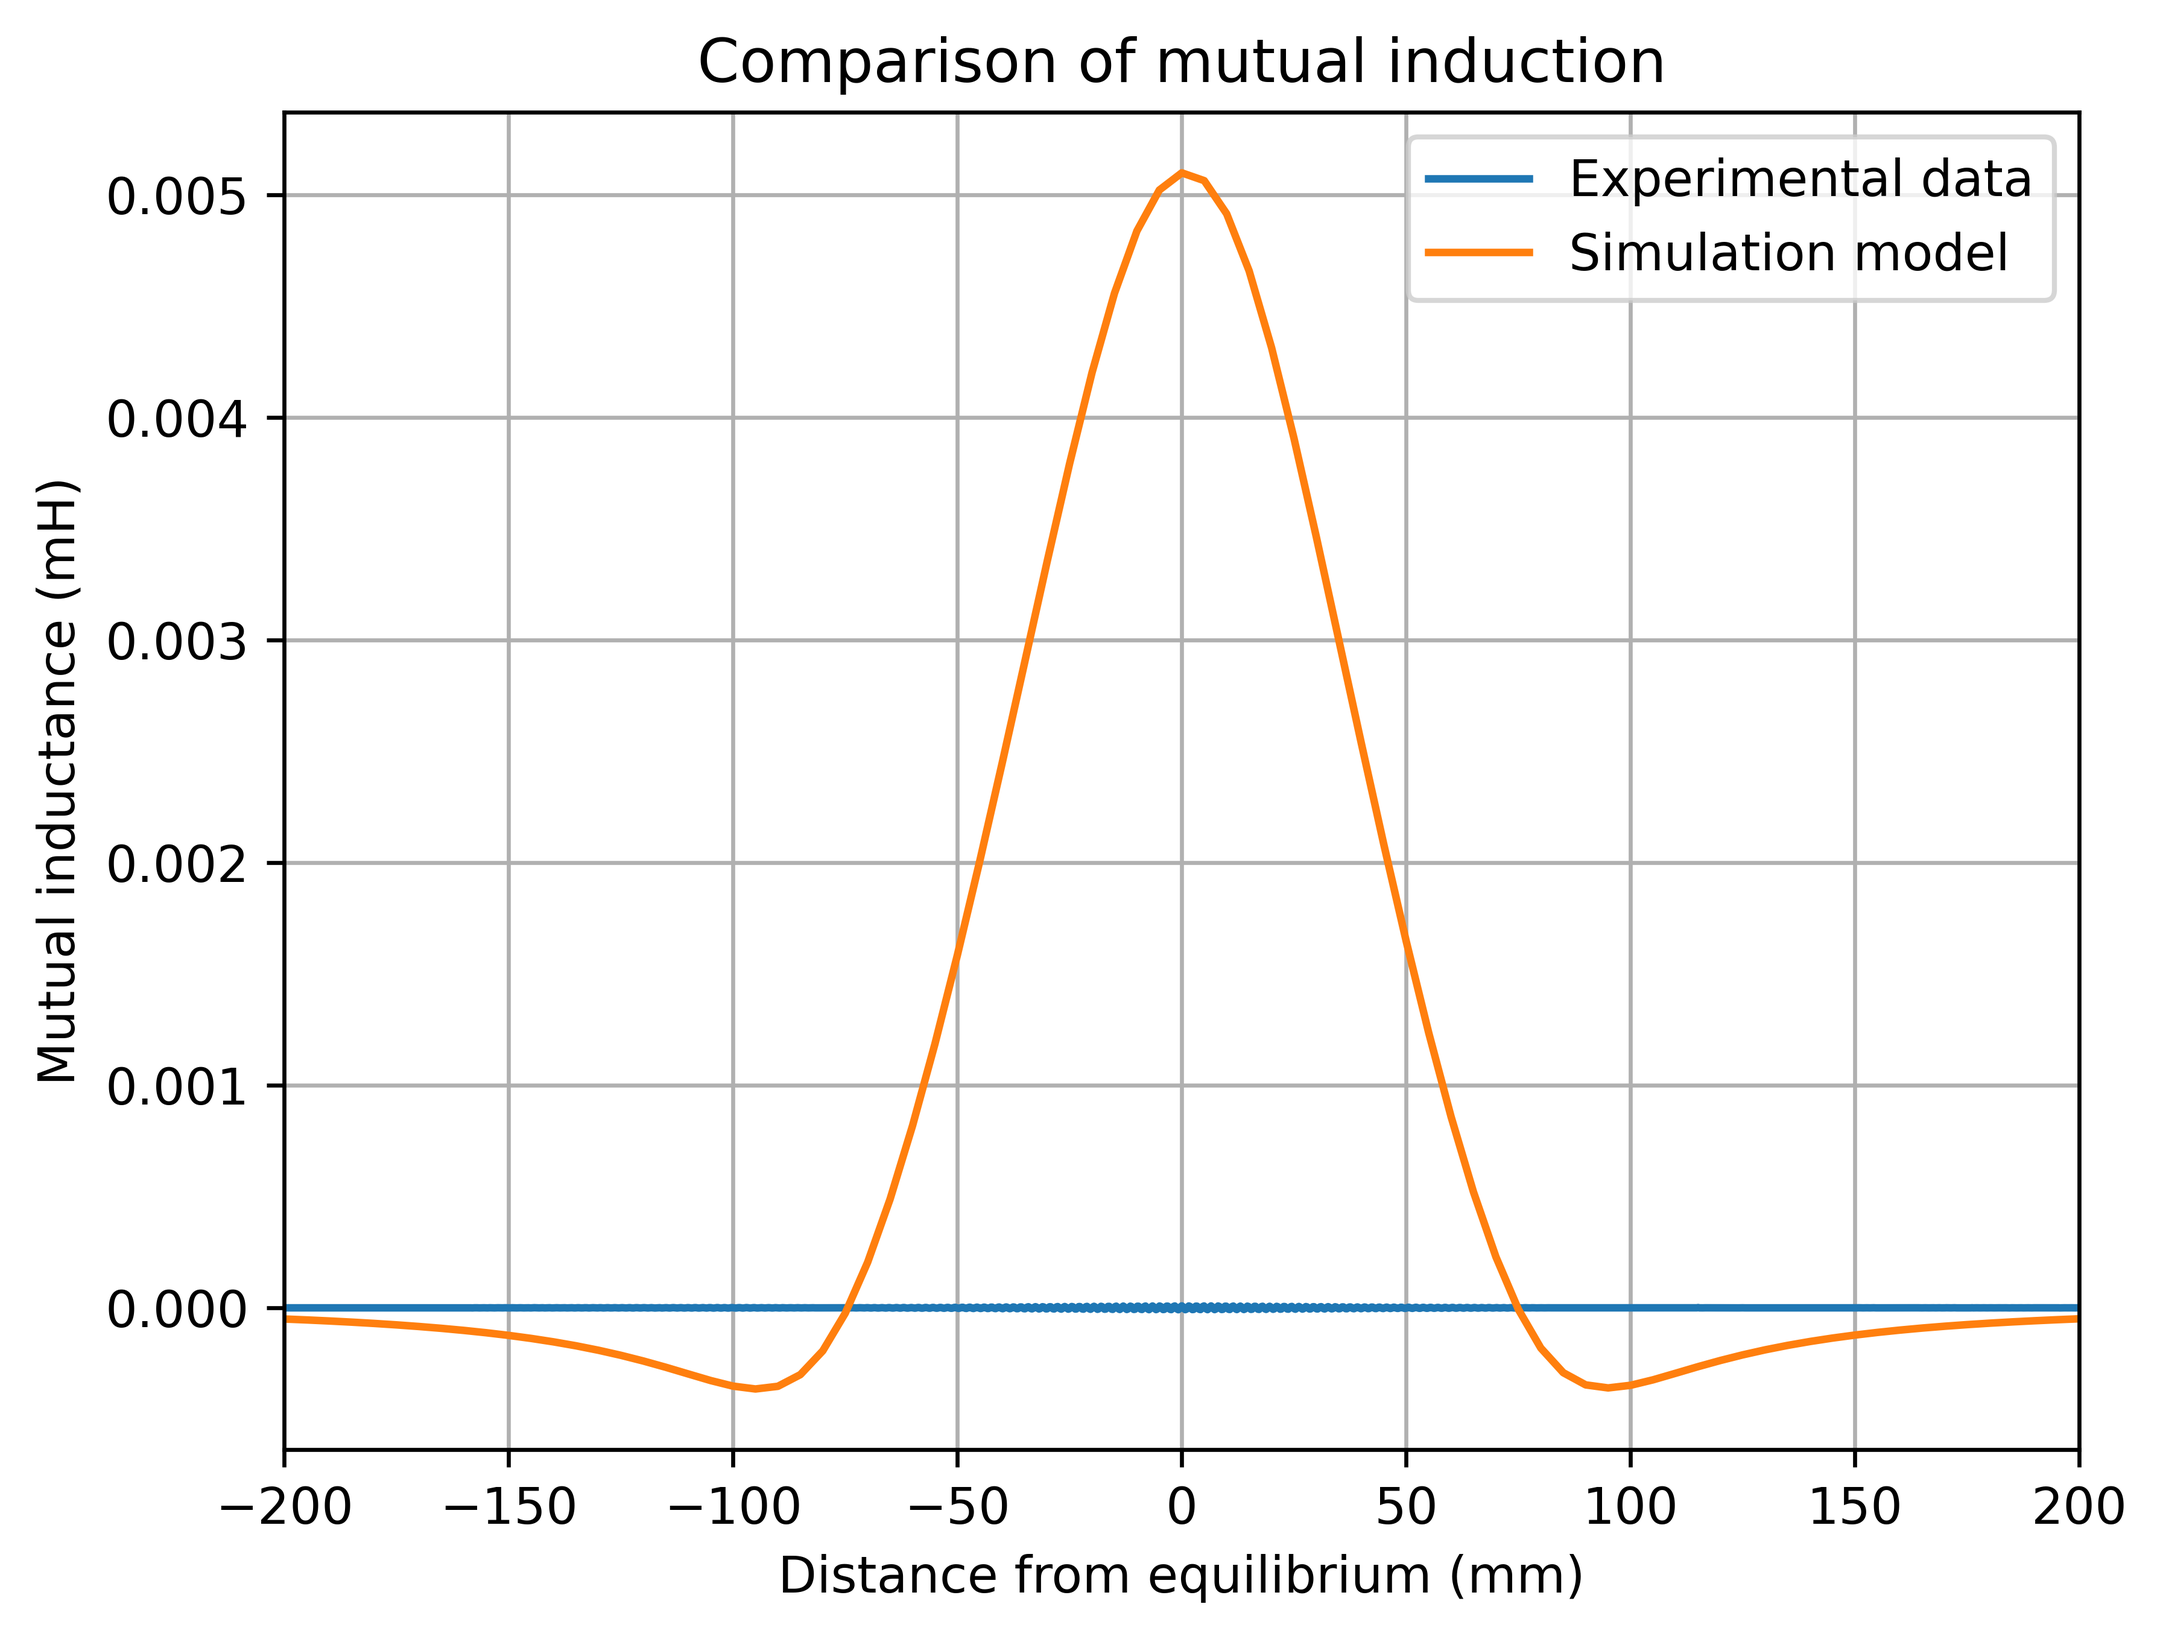
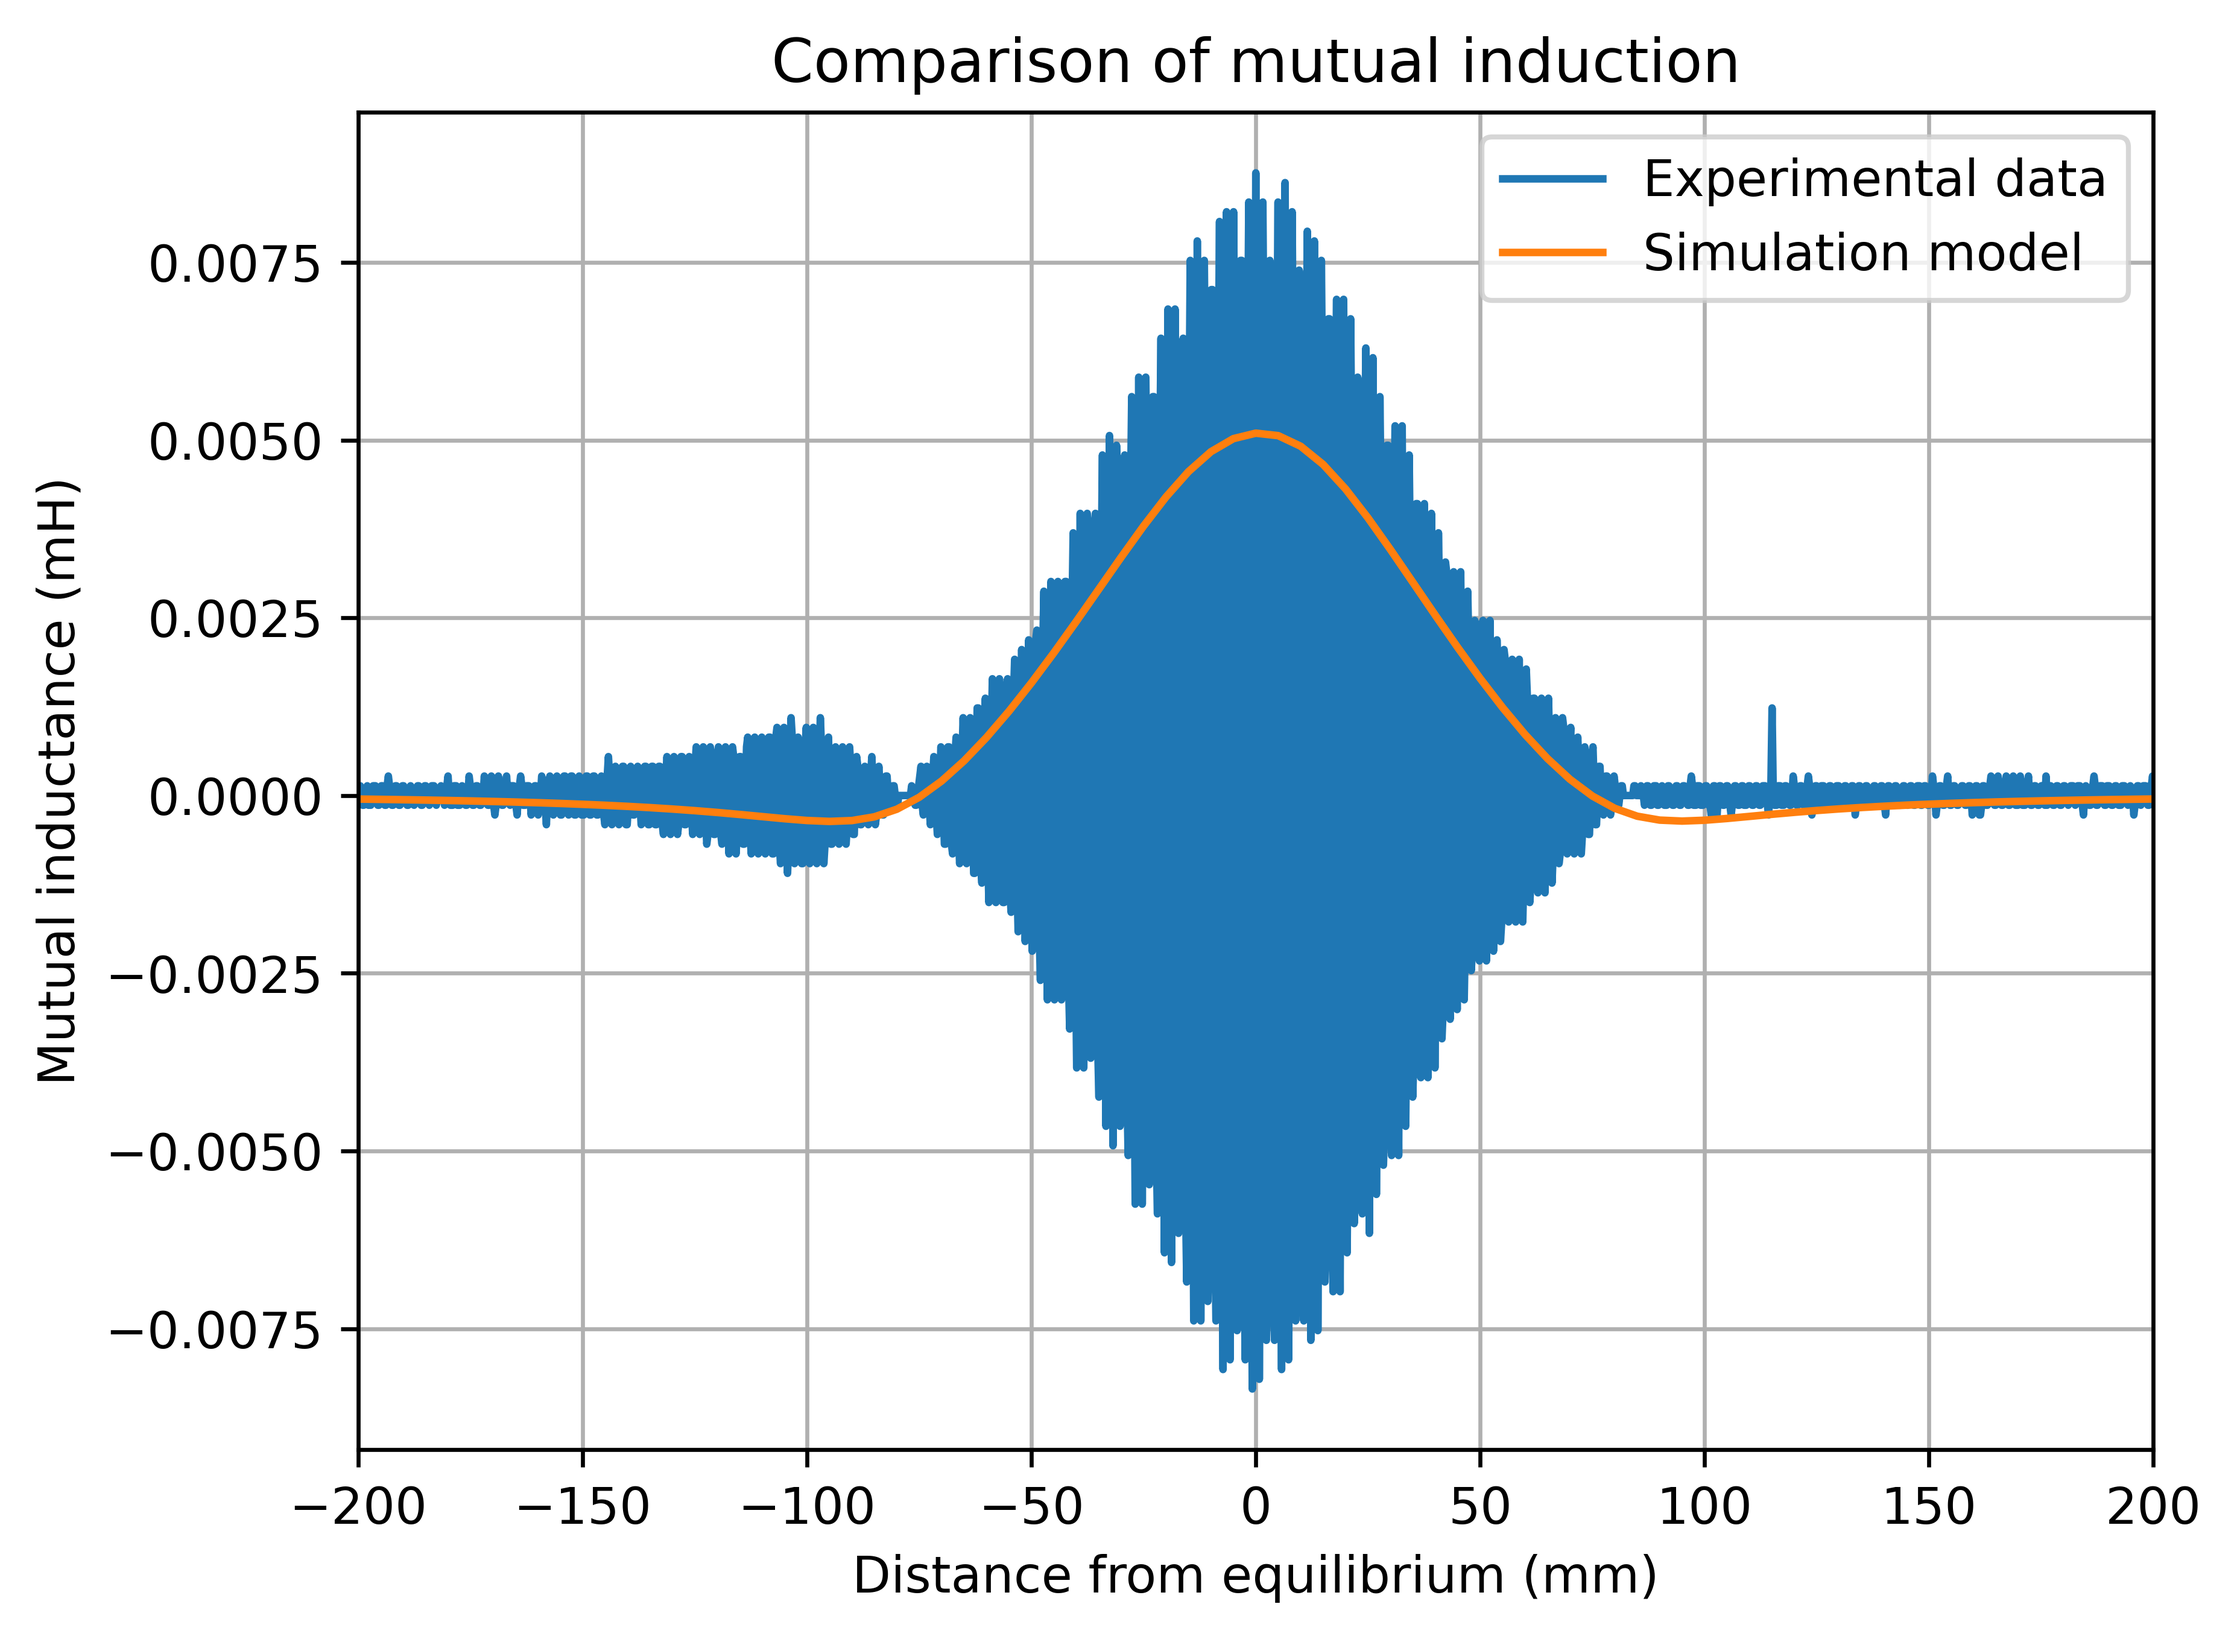
simulated induced EMF and compared to experimental data

diff --git a/MathPlottting.py b/MathPlottting.py
@@ -25,10 +25,10 @@ time = np.linspace(-10e-6, 10e-6,10000)
 #define the conditions
 
 #define the values of the components in base units
-Rs = 600         #Load resistence
+Rs = 600        #Internal resistance of picoscope
 R1 = 0.5        #Variable resistance circuit 1
-R2 = 0.5      #Variable resistance circuit 2
-R0 = 200e3         #Internal car resistance
+R2 = 0.5        #Variable resistance circuit 2
+R0 = 0          #Internal car resistance
 L1 = 26e-6      #Inductance of circuit 1
 L2 = 26e-6      #Inductance of circuit 2
 C1 = 1e-9       #Capacitance of circuit 1
@@ -67,13 +67,13 @@ Z2 = R0imp+R2imp+L2imp+C2imp              #Total inductance of circuit 2
 
 
 
-I1 = imaginaryVs/(Z1+((ω*M)**2)/Z2)         #Current in circuit 1
+I1 = imaginaryVs/(Z1+((ω*M)**2)/Z2)           #Current in circuit 1
 I2 = (1j*ω*M*imaginaryVs)/(Z1*Z2+((ω*M)**2))  #Current in circuit 2
 
 
 
 powerIn  =  imaginaryVs*I1
-powerOut = (R0+R2)*I2**2
+powerOut = (np.real(L2)+R2)*I2**2
 
 Vout = powerOut/I2
 
@@ -105,6 +105,8 @@ ax1.grid()
 ax1.plot(time,realVs)
 ax1.plot(time,np.real(Vout))
 ax1.plot(expT,expE)
+ax1.set_xlabel('Time (s)')
+ax1.set_ylabel('Potential difference (V)')
 plt.title("ω = %s"%(np.format_float_scientific(ω,precision=3)))
 plt.legend(['Computational Vin',"Computational Vout","Experimental Vout"])
 plt.show()
@@ -113,4 +115,5 @@ plt.show()
 plt.plot(time,I1)
 plt.plot(time,I2)
 plt.legend(['I1',"I2"])
+plt.show()
 #ax2.plot(time,I2,color="red")

diff --git a/dataAnalysis.py b/dataAnalysis.py
@@ -52,7 +52,7 @@ expT, expE = extract('Data/exp1.csv',3)     #expT is time (s), expE is induced E
 
 #Initial conditions
 Vs = 2              # (V) Source, driving potential difference
-Rs = 0.6            # (Ω) Source resistance
+Rs = 600            # (Ω) Source resistance
 f = 600e3         # (Hz) Source, driving frequency
 velocity = 0.064     # (m/s) lift velocity
 
@@ -146,4 +146,30 @@ ax2.plot(compD,compK,color='red')
 ax2.legend(['Experimental data','Simulation model'],loc ='upper right')
 fig2.savefig('CouplingCoefficient.png',dpi=600,bbox_inches='tight')
 plt.tight_layout()
+
+#---------------------------------------------
+# Polyfit the data to an Nth degree polynomial
+coeff,cov = np.polyfit(compD,compM,30,cov=True)
+
+# Find the x and y using the polyfit data, delete this later
+compX = np.linspace(-225,225,1000000)         #same bounds as our data
+compY = np.polyval(coeff,compX)             #Mutual inductance approximated
+
+compE = np.real(compY*Is*ω*np.exp(1j*ω*compX))
+
+
+
+
+# More boring matplotlib stuff
+fig3 = plt.figure()
+plt.grid()
+ax3 = plt.subplot(111)
+ax3.set_xlabel('Distance from equilibrium (mm)')
+ax3.set_ylabel('Induced ε (mV)')
+ax3.plot(expD,expE)
+ax3.plot(compX,compE)
+ax3.set_xlim([-200,200])
+ax3.legend(['Experimental','Computational'])
+ax3.set_title('Comparing induced EMF')
+fig3.savefig('comparingEMF.png',dpi=600)
 plt.show()
